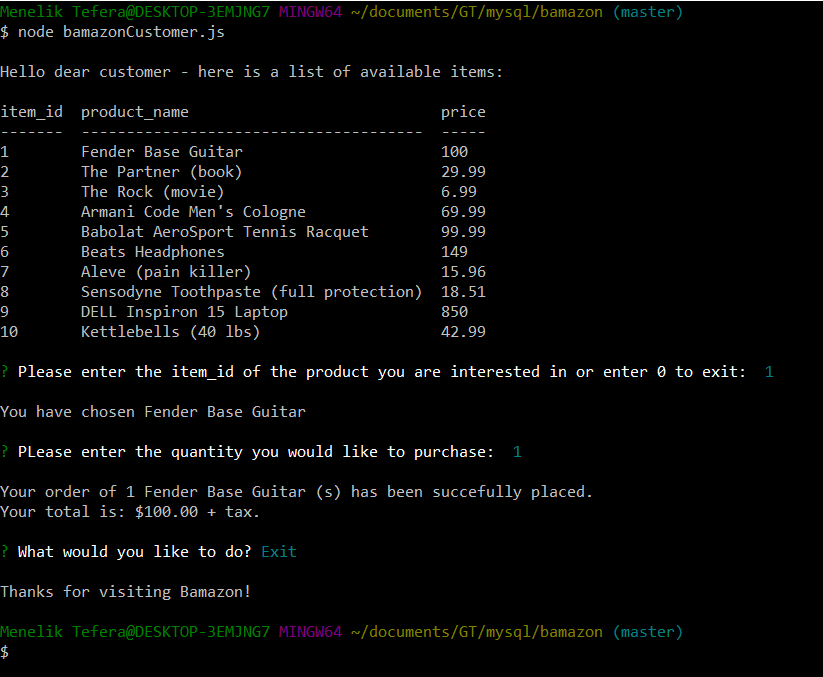
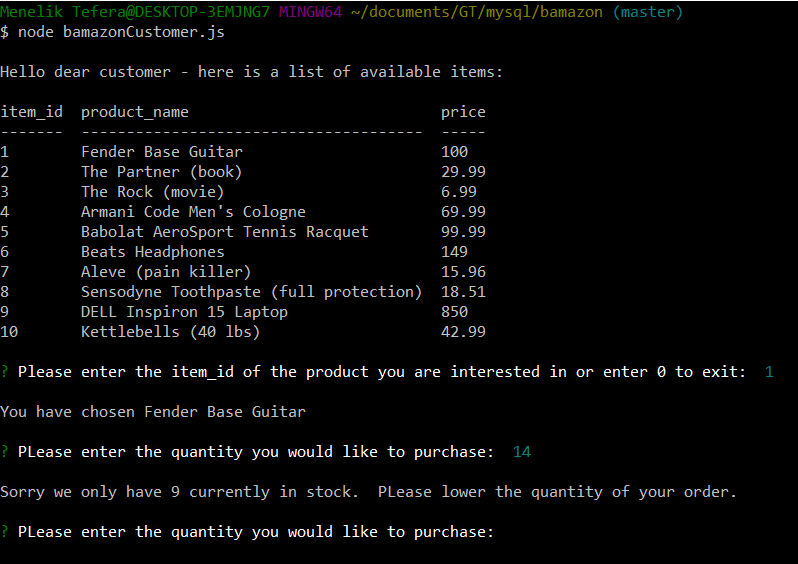
Customer View Firsrt Full ReadMe Upload

diff --git a/README.md b/README.md
@@ -25,13 +25,15 @@ easy access to his inventory and edit as needed.
 
 	If the user entered an amount that the store can accomodate, then the customer will be
 	given confirmation that the order has gone through, their total will be displayed, and they
-	will have the choice to keep shopping or exit.  
+	will have the choice to keep shopping or exit.  If they entered an amount that the store cannot
+	accommodate, they will be shown what the store currently has on stock and prompted to enter a lower quantity:
 
 	![Image of Customer Valid item_id and Quantity](https://menelik7.github.io/Bamazon/images/CustomerView4.PNG)
+	![Image of Customer Quantity Too High](https://menelik7.github.io/Bamazon/images/CustomerView5.PNG)
 
 	If they chose the exit:
 
-	![Image of Customer Exit](https://menelik7.github.io/Bamazon/images/CustomerView5.PNG)
+	![Image of Customer Exit](https://menelik7.github.io/Bamazon/images/CustomerView6.PNG)
 
 
 
